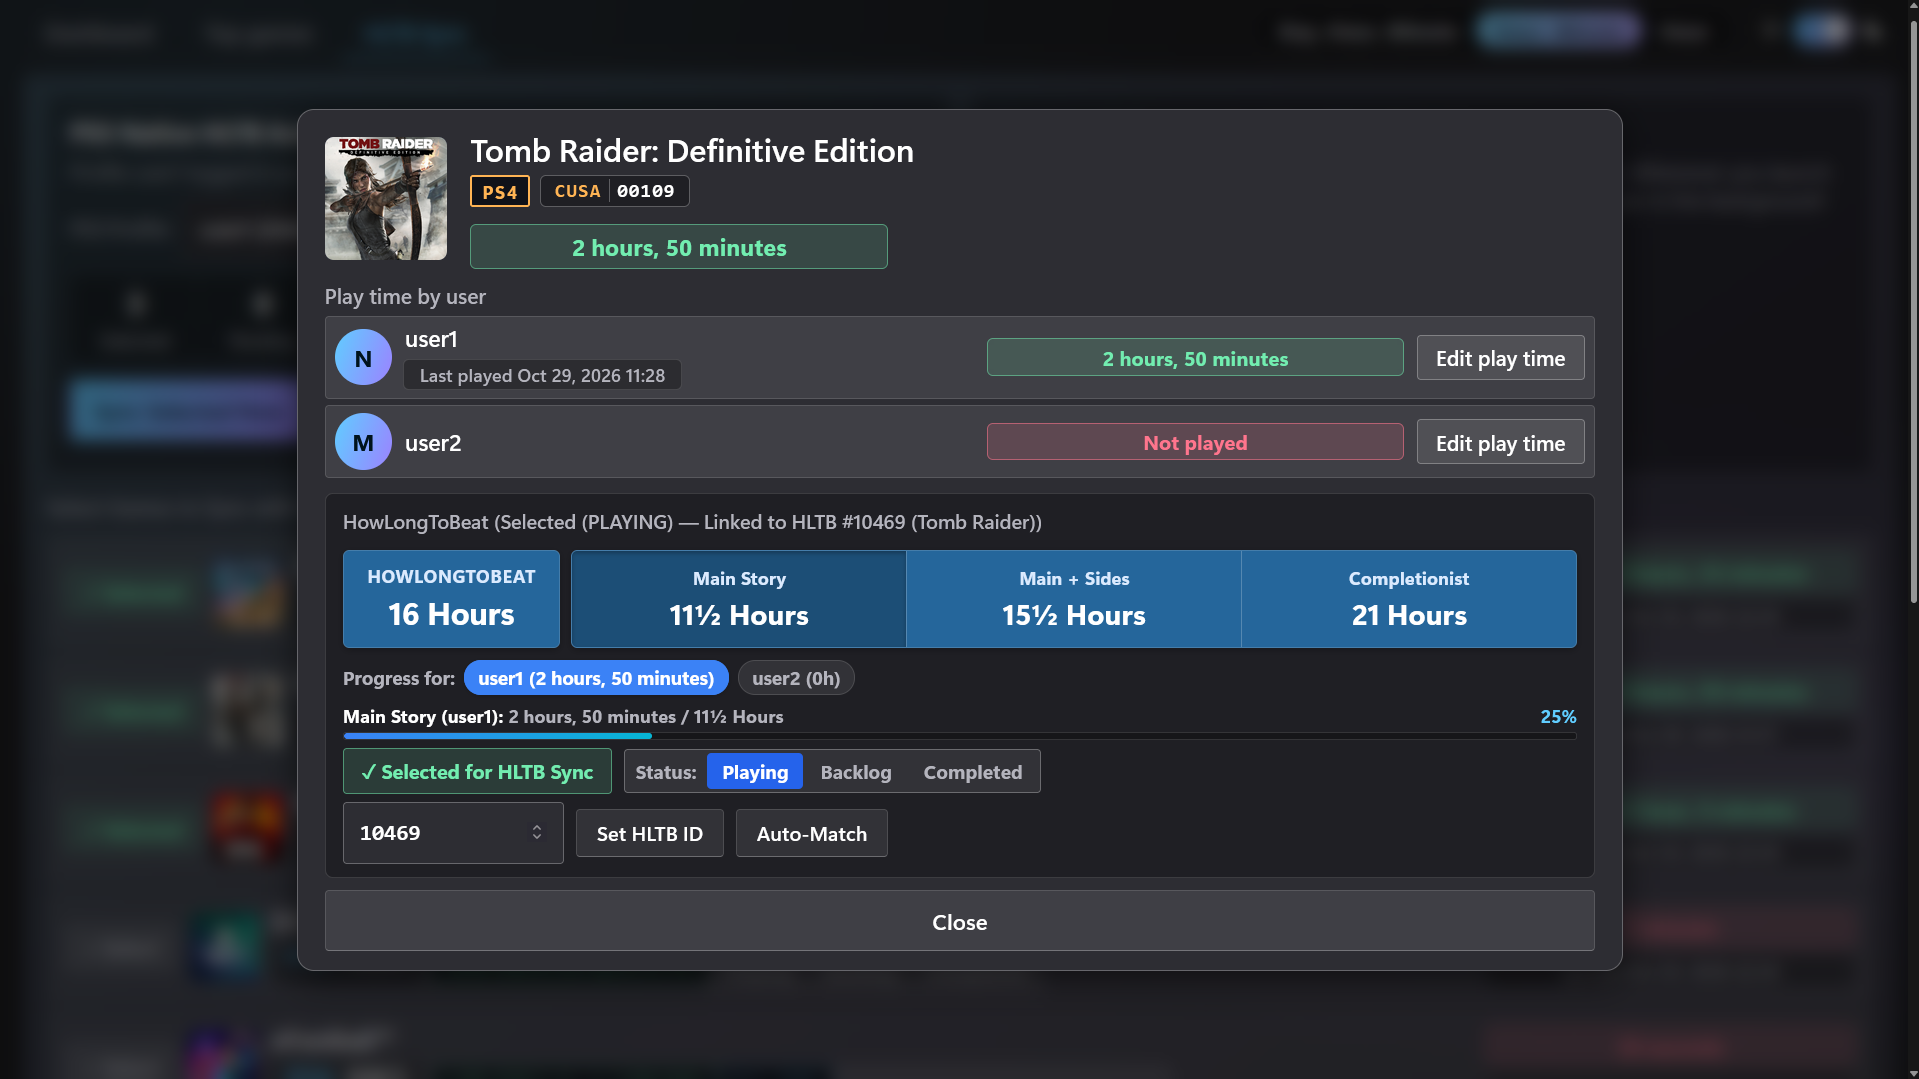
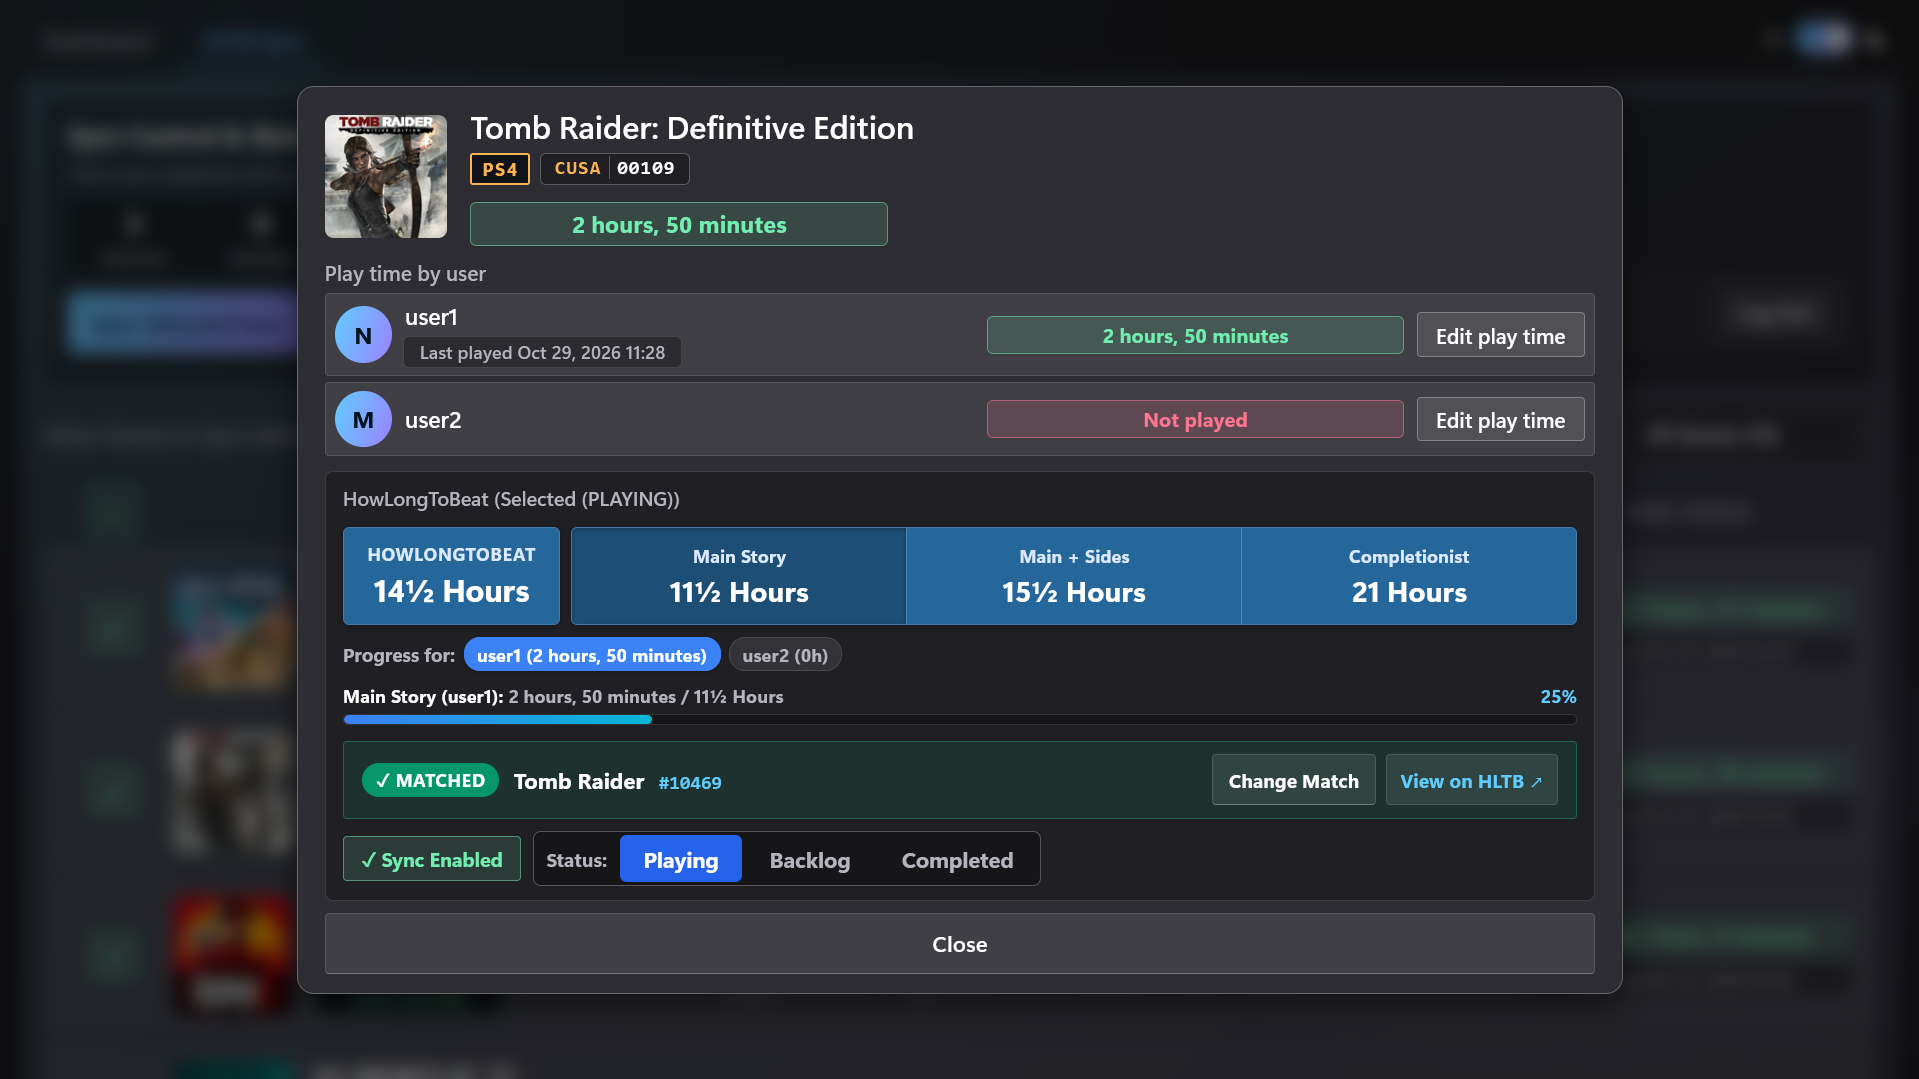
Update README and refresh screenshots with v1.2.0 UI and Media shortcut

diff --git a/README.md b/README.md
@@ -39,6 +39,10 @@ Open it on the console's own browser or from a phone / laptop on the same networ
   - Search by name or title ID, multi-platform filter (PS5, PS4, Homebrew), persistent sort settings.
   - Dark and light themes.
   - Edit play time per user with backup (`/data/playtime_app.db.bak`).
+- **Console & System Integration**:
+  - **PS5 Media Tab Shortcut**: One-click install of a direct home screen tile (`HLTB00001`) to launch the dashboard without Payload Manager.
+  - **Native System Notifications**: On-screen TV debug popups for payload readiness, Rest Mode resume, HLTB sync updates, and session expiration alerts.
+  - **Rest Mode Resilience & Duplicate Guard**: Automatic socket recovery across console Rest Mode cycles, plus active port/PID checks to prevent duplicate processes.
 
 ## Screenshots
 
